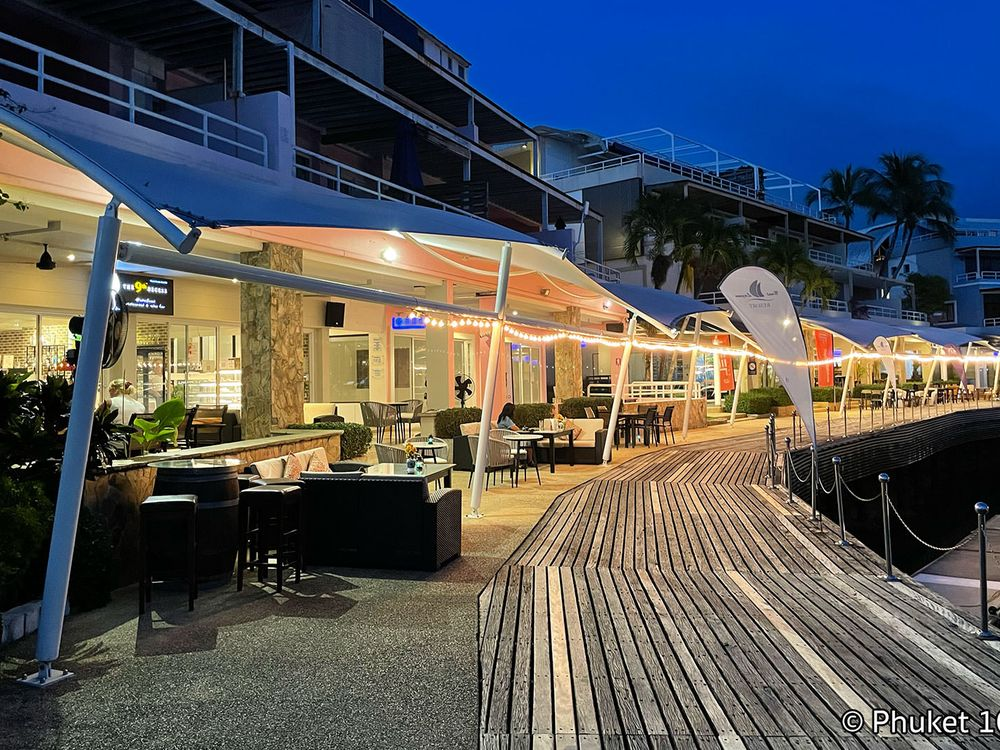
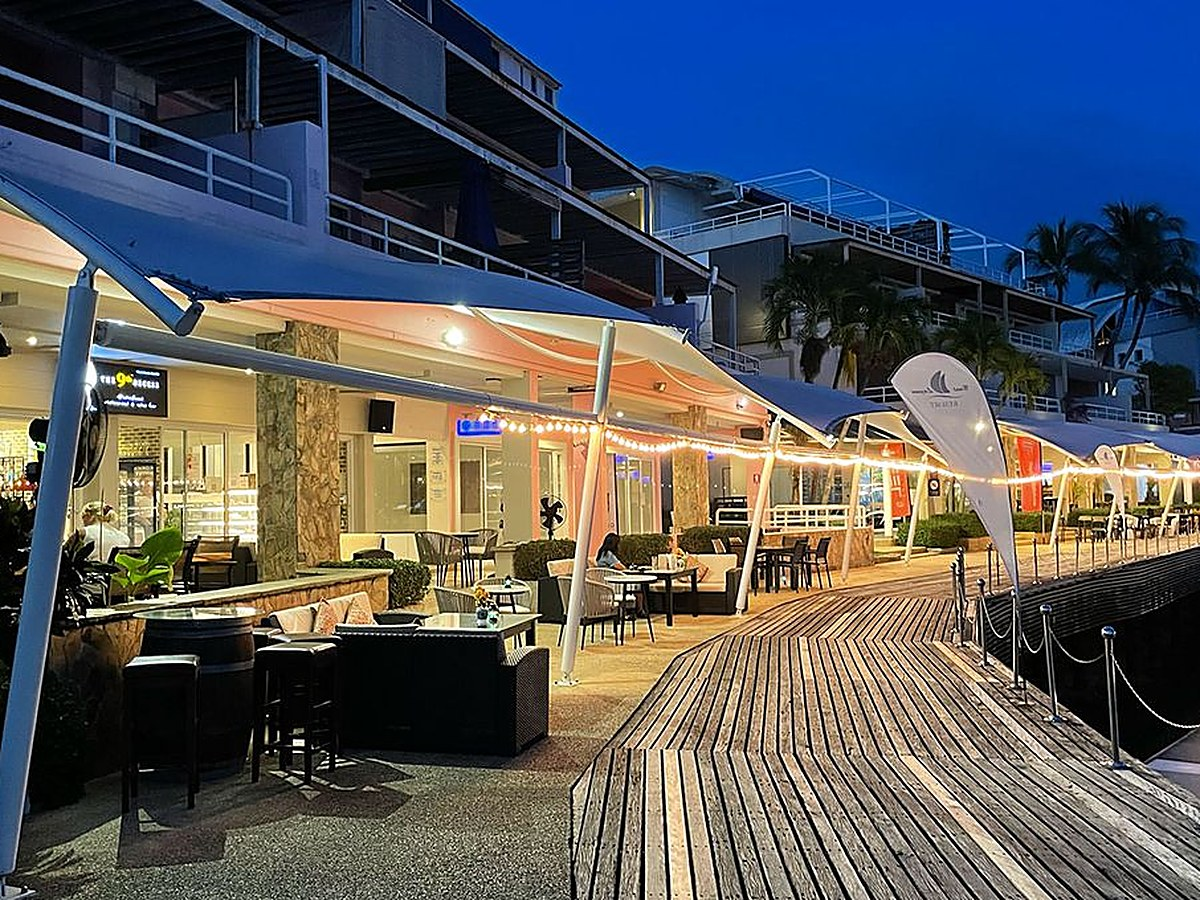
The 9th Degree: remove watermark, add gallery, +355% result
Removes the "© Phuket 101" watermark baked into the existing card
photo by cropping it out, and adds a 3-photo gallery (wine bar
interior, daytime marina, dusk boardwalk) built from newly submitted
photos with the same watermark cropped out. Adds the +355% ROAS badge
and a Result section noting bookings have increased a lot, with
events and promotions selling out quickly. Reorders the entry into
its correct rank among the other verified results.

Claude-Session: https://claude.ai/code/session_012apiprDPUvAN4apkrwhWuf

diff --git a/site/work.html b/site/work.html
@@ -270,6 +270,19 @@
         </div>
       </a>
 
+      <a href="case-study-the-9th-degree.html" class="ldm-case reveal">
+        <div class="ldm-case-media">
+          <span class="badge">Lagoon Front Restaurant</span>
+          <img src="assets/img/clients/the-9th-degree-photo.jpg" alt="The lagoon-front boardwalk at The 9th Degree" loading="lazy" width="1200" height="900">
+        </div>
+        <div class="ldm-case-body">
+          <div class="ldm-case-title"><span class="title-text">The 9th Degree</span> <span class="arrow">&rarr;</span></div>
+          <div class="ldm-case-industry">Performance Marketing &middot; Analytics &middot; Conversion Tracking</div>
+          <p class="ldm-case-desc">A lagoon-front boardwalk view in Phuket, converted into measurable, qualified reservations through paid media built around that setting.</p>
+          <div class="ldm-case-result">+355% <span class="label">ROAS</span></div>
+        </div>
+      </a>
+
       <a href="case-study-the-barrel.html" class="ldm-case reveal">
         <div class="ldm-case-media">
           <span class="badge">Lifestyle &amp; Retail</span>
@@ -423,18 +436,6 @@
           <div class="ldm-case-title"><span class="title-text">Meso</span> <span class="arrow">&rarr;</span></div>
           <div class="ldm-case-industry">Performance Marketing &middot; Analytics &middot; Conversion Tracking</div>
           <p class="ldm-case-desc">A beach restaurant inside an established Morjim Beach resort, converted into a steady flow of table bookings through paid media built to earn more than passing foot traffic.</p>
-        </div>
-      </a>
-
-      <a href="case-study-the-9th-degree.html" class="ldm-case reveal">
-        <div class="ldm-case-media">
-          <span class="badge">Lagoon Front Restaurant</span>
-          <img src="assets/img/clients/the-9th-degree-photo.jpg" alt="The lagoon-front boardwalk at The 9th Degree" loading="lazy" width="1200" height="900">
-        </div>
-        <div class="ldm-case-body">
-          <div class="ldm-case-title"><span class="title-text">The 9th Degree</span> <span class="arrow">&rarr;</span></div>
-          <div class="ldm-case-industry">Performance Marketing &middot; Analytics &middot; Conversion Tracking</div>
-          <p class="ldm-case-desc">A lagoon-front boardwalk view in Phuket, converted into measurable, qualified reservations through paid media built around that setting.</p>
         </div>
       </a>
 

diff --git a/site/case-study-the-9th-degree.html b/site/case-study-the-9th-degree.html
@@ -80,6 +80,7 @@
       <span class="tag">Phuket, Thailand</span>
     </div>
     <p class="lede">A lagoon-front boardwalk view in Phuket, converted into measurable, qualified reservations through paid media built around that setting.</p>
+    <div class="ldm-case-result" style="margin-top:8px;">+355% <span class="label">ROAS</span></div>
   </section>
 
   <!-- HERO IMAGE -->
@@ -121,6 +122,30 @@
         <h4>Conversion Rate Optimization</h4>
         <p>Ongoing testing of the enquiry and booking flow to convert more of that attention into qualified reservations.</p>
       </div>
+    </div>
+  </section>
+
+  <!-- GALLERY -->
+  <section class="ldm-section container">
+    <div class="reveal" style="display:grid;gap:16px;grid-template-columns:repeat(auto-fit,minmax(260px,1fr));">
+      <div class="card-image" style="aspect-ratio:4/3;">
+        <img src="assets/img/clients/the-9th-degree-gallery-1.jpg" alt="The wine bar and lounge seating inside The 9th Degree" loading="lazy" width="1200" height="900" style="width:100%;height:100%;object-fit:cover;">
+      </div>
+      <div class="card-image" style="aspect-ratio:4/3;">
+        <img src="assets/img/clients/the-9th-degree-gallery-2.jpg" alt="Yachts moored in the marina beside The 9th Degree" loading="lazy" width="1200" height="900" style="width:100%;height:100%;object-fit:cover;">
+      </div>
+      <div class="card-image" style="aspect-ratio:4/3;">
+        <img src="assets/img/clients/the-9th-degree-gallery-3.jpg" alt="The 9th Degree's lagoon-front boardwalk lit up at dusk" loading="lazy" width="1200" height="900" style="width:100%;height:100%;object-fit:cover;">
+      </div>
+    </div>
+  </section>
+
+  <!-- RESULT -->
+  <section class="ldm-section container container-narrow">
+    <div class="reveal">
+      <span class="eyebrow">The Result</span>
+      <h2 class="fs-h2" style="margin:16px 0 24px;">Bookings at The 9th Degree have increased a lot, with events and promotions selling out fast.</h2>
+      <p class="lede" style="max-width:none;">Bookings have increased significantly compared to before, and events and promotions get fully booked quickly, keeping the lagoon-front boardwalk busy night after night.</p>
     </div>
   </section>
 

diff --git a/wordpress-theme/liam-digital-marketing/inc/case-studies.php b/wordpress-theme/liam-digital-marketing/inc/case-studies.php
@@ -447,6 +447,36 @@ function ldm_get_case_studies() {
 			'result_title'    => 'Simba Sea Trips has become one of the best sea trip operators in Phuket, selling out fast.',
 			'result_body'     => 'Tour packages sell out quickly and the boats stay fully booked every day, helping Simba Sea Trips grow into one of the best sea trip operators in Phuket.',
 		),
+		array(
+			'slug'              => 'the-9th-degree',
+			'name'              => 'The 9th Degree',
+			'badge'             => 'Lagoon Front Restaurant',
+			'location'        => 'Phuket, Thailand',
+			'industry'          => 'Performance Marketing &middot; Analytics &middot; Conversion Tracking',
+			'type'              => 'Lagoon Front Restaurant',
+			'desc'              => 'A lagoon-front boardwalk view in Phuket, converted into measurable, qualified reservations through paid media built around that setting.',
+			'result'            => '355%',
+			'img'               => 'the-9th-degree-photo.jpg',
+			'alt'               => 'The lagoon-front boardwalk at The 9th Degree',
+			'href'              => null,
+			'hero_img'          => 'the-9th-degree-hero.jpg',
+			'challenge_title' => 'A lagoon-front setting needed a way to turn its view into trackable bookings.',
+			'challenge_body'  => 'The 9th Degree is a lagoon-front restaurant in Phuket, built around its waterfront boardwalk setting. A striking view alone doesn\'t convert into a steady, trackable stream of reservations. The venue needed a paid media system built to turn that setting into measurable, qualified bookings.',
+			'strategy_title'  => 'Full-funnel marketing built for reservations, not just clicks.',
+			'strategy_intro'  => 'Three connected workstreams built to turn The 9th Degree\'s reputation into qualified reservations.',
+			'strategy_steps'  => array(
+				array( 'title' => 'Paid Media', 'desc' => 'Campaigns built around real venue photography and audience targeting suited to The 9th Degree\'s lagoon-front dining crowd.' ),
+				array( 'title' => 'Full-Funnel Marketing', 'desc' => 'Connecting every stage from first ad view through to reservation, not just optimizing for clicks.' ),
+				array( 'title' => 'Conversion Rate Optimization', 'desc' => 'Ongoing testing of the enquiry and booking flow to convert more of that attention into qualified reservations.' ),
+			),
+			'gallery'         => array(
+				array( 'img' => 'the-9th-degree-gallery-1.jpg', 'alt' => 'The wine bar and lounge seating inside The 9th Degree' ),
+				array( 'img' => 'the-9th-degree-gallery-2.jpg', 'alt' => 'Yachts moored in the marina beside The 9th Degree' ),
+				array( 'img' => 'the-9th-degree-gallery-3.jpg', 'alt' => 'The 9th Degree\'s lagoon-front boardwalk lit up at dusk' ),
+			),
+			'result_title'    => 'Bookings at The 9th Degree have increased a lot, with events and promotions selling out fast.',
+			'result_body'     => 'Bookings have increased significantly compared to before, and events and promotions get fully booked quickly, keeping the lagoon-front boardwalk busy night after night.',
+		),
 		array( 'slug' => 'the-barrel', 'name' => 'The Barrel', 'badge' => 'Lifestyle &amp; Retail', 'industry' => 'Conversion Optimization &middot; Digital Strategy', 'type' => null, 'desc' => 'Rebuilding the online discovery and reservation journey for this wine merchant and restaurant across paid channels.', 'result' => null, 'img' => 'the-barrel-case.jpg', 'alt' => 'Wine display at The Barrel wine merchant', 'href' => null ),
 		array( 'slug' => 'chalong-bay-rum', 'name' => 'Chalong Bay Rum', 'badge' => 'E-commerce', 'location' => 'Phuket, Thailand', 'industry' => 'Meta Ads &middot; Google Shopping &middot; Marketing Analytics', 'type' => null, 'desc' => 'Rebuilding the tracking foundation so every dollar of ad spend for this rum distillery could be traced to revenue, not just clicks.', 'result' => null, 'img' => 'chalong-bay-rum-case.jpg', 'alt' => 'A Chalong Bay Rum cocktail served at the distillery', 'href' => null ),
 		array( 'slug' => 'raw-uluwatu', 'name' => 'Raw Uluwatu', 'badge' => 'Gym', 'location' => 'Bali, Indonesia', 'industry' => 'Lead Generation &middot; Google Ads &middot; CRM Integration', 'type' => null, 'desc' => 'Replacing generic form-fills with a qualified-lead pipeline for gym memberships, synced directly into the studio\'s CRM.', 'result' => null, 'img' => 'raw-uluwatu-case.jpg', 'alt' => 'Training floor at Raw Uluwatu gym', 'href' => null ),
@@ -680,29 +710,6 @@ function ldm_get_case_studies() {
 				array( 'title' => 'Paid Media', 'desc' => 'Campaigns built around real venue photography and audience targeting suited to Meso\'s beachfront dining crowd in Goa.' ),
 				array( 'title' => 'Full-Funnel Marketing', 'desc' => 'Connecting every stage from first ad view through to table booking, not just optimizing for clicks.' ),
 				array( 'title' => 'Conversion Rate Optimization', 'desc' => 'Ongoing testing of the enquiry and booking flow to convert more of that attention into qualified bookings.' ),
-			),
-		),
-		array(
-			'slug'              => 'the-9th-degree',
-			'name'              => 'The 9th Degree',
-			'badge'             => 'Lagoon Front Restaurant',
-			'location'        => 'Phuket, Thailand',
-			'industry'          => 'Performance Marketing &middot; Analytics &middot; Conversion Tracking',
-			'type'              => 'Lagoon Front Restaurant',
-			'desc'              => 'A lagoon-front boardwalk view in Phuket, converted into measurable, qualified reservations through paid media built around that setting.',
-			'result'            => null,
-			'img'               => 'the-9th-degree-photo.jpg',
-			'alt'               => 'The lagoon-front boardwalk at The 9th Degree',
-			'href'              => null,
-			'hero_img'          => 'the-9th-degree-hero.jpg',
-			'challenge_title' => 'A lagoon-front setting needed a way to turn its view into trackable bookings.',
-			'challenge_body'  => 'The 9th Degree is a lagoon-front restaurant in Phuket, built around its waterfront boardwalk setting. A striking view alone doesn\'t convert into a steady, trackable stream of reservations. The venue needed a paid media system built to turn that setting into measurable, qualified bookings.',
-			'strategy_title'  => 'Full-funnel marketing built for reservations, not just clicks.',
-			'strategy_intro'  => 'Three connected workstreams built to turn The 9th Degree\'s reputation into qualified reservations.',
-			'strategy_steps'  => array(
-				array( 'title' => 'Paid Media', 'desc' => 'Campaigns built around real venue photography and audience targeting suited to The 9th Degree\'s lagoon-front dining crowd.' ),
-				array( 'title' => 'Full-Funnel Marketing', 'desc' => 'Connecting every stage from first ad view through to reservation, not just optimizing for clicks.' ),
-				array( 'title' => 'Conversion Rate Optimization', 'desc' => 'Ongoing testing of the enquiry and booking flow to convert more of that attention into qualified reservations.' ),
 			),
 		),
 		array(
